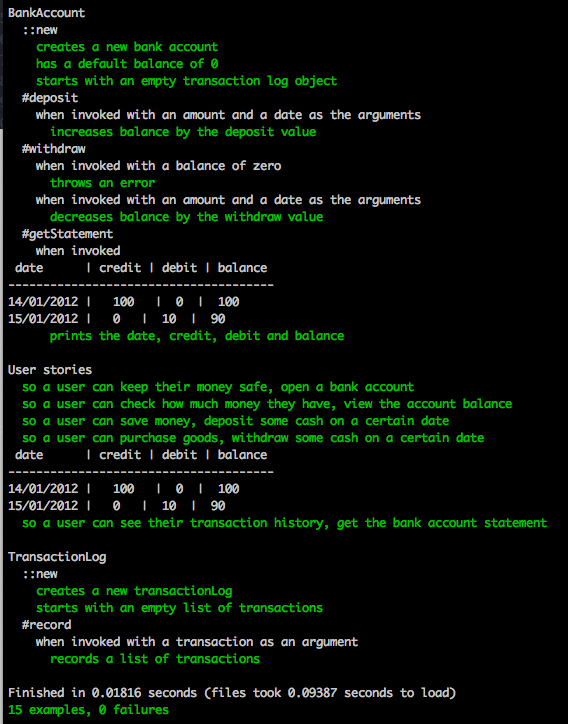
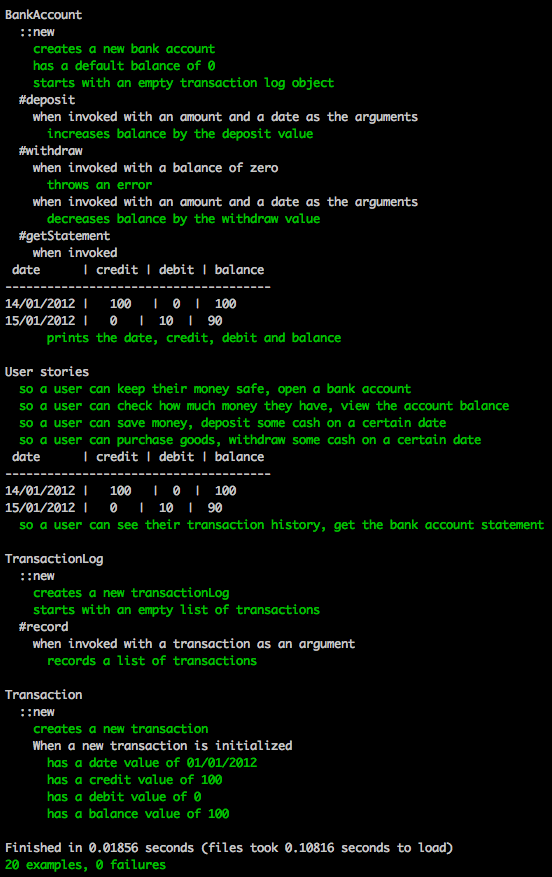
Refactor code to extract transaction to a class
- Create transaction_spec tests and associated class
- Update bankAccount and statementPrinter classes to reflect changes
- Update README.md with new screenshot of passing tests

Changed region(s): [[0.0, 0.0, 0.9855, 1.0]]

diff --git a/lib/bankAccount.rb b/lib/bankAccount.rb
@@ -1,3 +1,4 @@
+require_relative 'transaction'
 require_relative 'transactionLog'
 require_relative 'statementPrinter'
 
@@ -11,15 +12,15 @@ class BankAccount
 
   def deposit(amount, date)
     add_balance(amount)
-    transaction = {date: date, credit: amount, debit: 0, balance: @balance}
-    update_log(transaction)
+    details = { date: date, credit: amount, debit: 0, balance: @balance }
+    update_log(Transaction.new(details))
   end
 
   def withdraw(amount, date)
     raise insufficient_funds_msg if @balance == 0
-    minus_balance(amount)
-    transaction = {date: date, credit: 0, debit: amount, balance: @balance}
-    update_log(transaction)
+      minus_balance(amount)
+      details = { date: date, credit: 0, debit: amount, balance: @balance }
+      update_log(Transaction.new(details))
   end
 
   def getStatement

diff --git a/spec/transaction_spec.rb b/spec/transaction_spec.rb
@@ -1,0 +1,29 @@
+require "transaction"
+
+describe Transaction do
+  describe "::new" do
+    txn = {date: "01/01/2012", credit: 100, debit: 0, balance: 100}
+    subject { Transaction.new(txn) }
+
+    it "creates a new transaction" do
+      expect(subject).to be_instance_of(Transaction)
+    end
+
+    context "When a new transaction is initialized" do
+
+      it "has a date value of 01/01/2012" do
+        expect(subject.date).to eq("01/01/2012")
+      end
+      it "has a credit value of 100" do
+        expect(subject.credit).to eq(100)
+      end
+      it "has a debit value of 0" do
+        expect(subject.debit).to eq(0)
+      end
+      it "has a balance value of 100" do
+        expect(subject.balance).to eq(100)
+      end
+    end
+
+  end
+end

diff --git a/lib/statementPrinter.rb b/lib/statementPrinter.rb
@@ -8,7 +8,8 @@ class StatementPrinter
     puts " date      | credit | debit | balance "
     puts "--------------------------------------"
     @log.each do |txn|
-      puts "#{txn[:date]} |   #{txn[:credit]}   |  #{txn[:debit]}  |  #{txn[:balance]}  "
+      # puts "#{txn[:date]} |   #{txn[:credit]}   |  #{txn[:debit]}  |  #{txn[:balance]}  "
+      puts "#{txn.date} |   #{txn.credit}   |  #{txn.debit}  |  #{txn.balance}  "
     end
   end
 

diff --git a/lib/transaction.rb b/lib/transaction.rb
@@ -1,0 +1,12 @@
+class Transaction
+attr_reader :date, :credit, :debit, :balance
+
+
+  def initialize(details)
+    @date = details[:date]
+    @credit = details[:credit]
+    @debit = details[:debit]
+    @balance = details[:balance]
+  end
+
+end

diff --git a/README.md b/README.md
@@ -8,7 +8,7 @@ functionality developed using TDD and using OO principles:
 Enter the following commands in your terminal to download the program:
 - `git clone https://github.com/shezdev/bank_tech_test.git`
 - cd into the bank_tech_test directory
-- Run `bundle` to install ruby `gemfile` dependencies
+- Please run `bundle` to install the necessary ruby `gemfile` dependencies
 
 ## Usage
 - Type the command `pry` in your terminal to run the example tests provided in .pryrc
